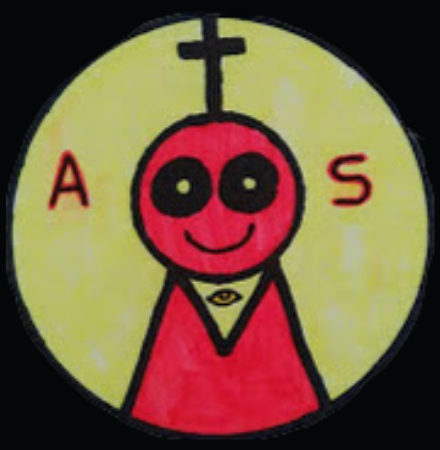
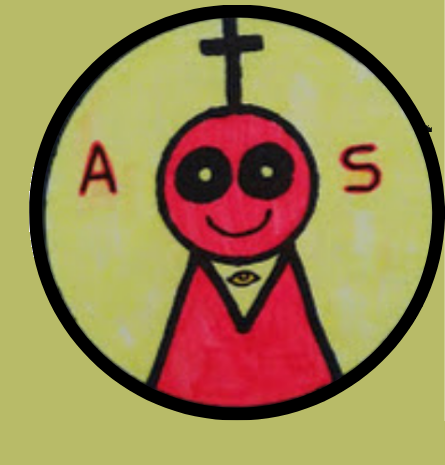
Add files via upload

diff --git a/index.html b/index.html
@@ -5,7 +5,7 @@
     <title>Free Freaks</title>
   </head>
 <link rel="icon" href="iconos.png">  <body>
-    <font size="2" style="color: red">® Creado por Freektom (TCL) </font>
+    <font size="3" style="color: red">® Creado por Freektom (TCL) </font>
     <center>
       <font size="5" font="Arial">
   <h2 id:"titulo" style="color: white">Free Freaks</h2>
@@ -19,12 +19,12 @@
 <style media="screen">
   /* Esto es codigo CSS porque esta adentro de un tag <style> */
 
-  * {   background-color: #040707
+  * {   background-color: #b8bb66
 
     }
   a, h2 {
     font-family: -apple-system, BlinkMacSystemFont, 'Arial Black', Roboto, Oxygen, Ubuntu, Cantarell, 'Open Sans', 'Helvetica Neue', sans-serif;
-    background-color: #040707
+    background-color: #b8bb66
 
 
 
@@ -33,11 +33,10 @@
   a {
     color:white;
     outline: none;
-    background-color: #040707;
+    background-color: #b8bb66;
     padding: 5px 10px;
     text-decoration: none;
     border-radius: 5px;
   }
   /* Aca termina el codigo CSS */
 </style>
-© 2021 GitHub, Inc.
